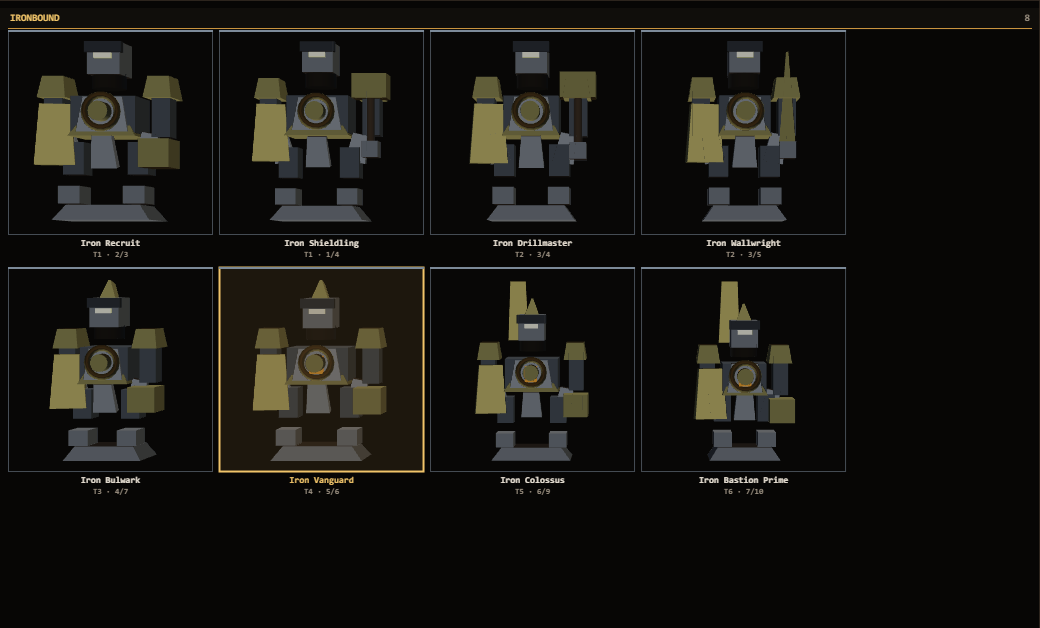
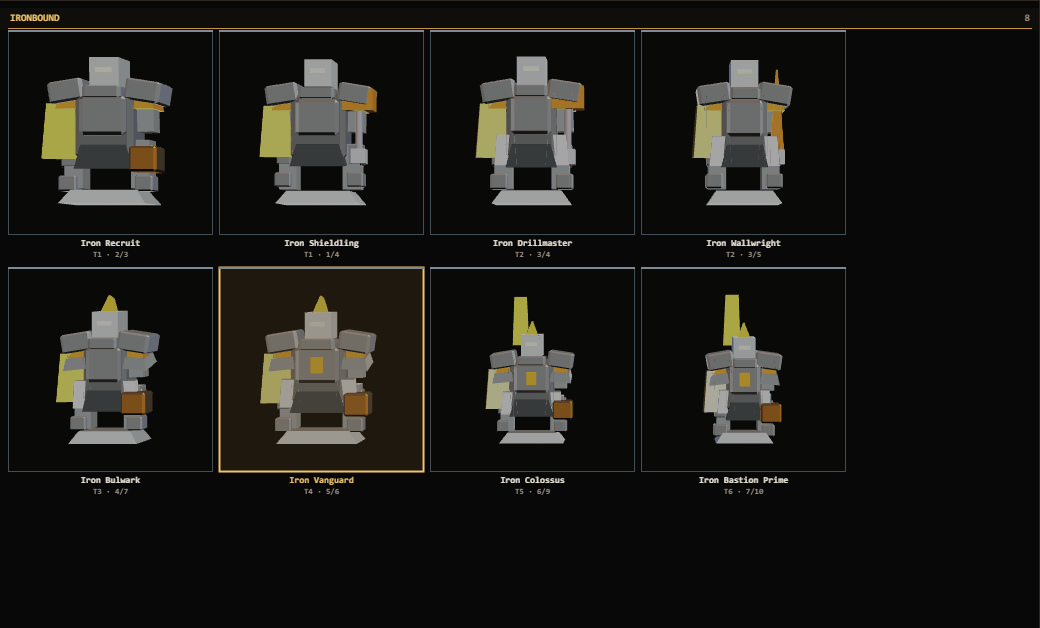
arena-forge: pass-5 Ironbound convergence (re-tuned for the new shading)
Fifth visual-convergence pass over the enriched, specular-lit figures — and it
re-derives the gallery lighting + Ironbound palette that a stale-base merge had
reverted to their pre-convergence values, now tuned for the real specular:

- lighting: key-dominant gallery rig (1.85 -> 2.45, fills cut) for plate contrast.
- surfacing: brighter satin steel + tighter metal roughness (0.22 -> 0.16) so the
  new specular reads as forged metal.
- colorist: warmer burnt-bronze accent trim.
- modeler: articulated arms (upper arm + beveled forearm + gauntlet fist), mirrored
  so BOTH arms terminate in a fist (fixes the handless mirrored-left-arm bug).
- rigger: shoulder-wide planted leg stance (the thighs were fusing into one pillar).
- art-director: gallery FIT 0.86 -> 0.70 for reference cell margins.

App-tier only; sim untouched. tsgo clean; node --test green.

Claude-Session: https://claude.ai/code/session_01GrrfmrxzJK6Ga4LVCSCwju

diff --git a/apps/arena-forge/web/src/figures/scene/arena-scene.ts b/apps/arena-forge/web/src/figures/scene/arena-scene.ts
@@ -39,12 +39,16 @@ export const arenaCamera = (): Camera3D => ({ position: vec3(0, 2.7, 4.8), targe
  */
 export const buildGalleryStage = (): void => {
   setClearColor([0.035, 0.032, 0.037, 1]);
-  // Key from the upper left, cool fill from the right, warm rim from the front so
-  // a tumbling figure keeps reading from every angle it rotates through.
-  addLight({ kind: "directional", direction: vec3(-0.4, -0.75, -0.52), color: [1, 0.96, 0.88, 1], intensity: 1.85 });
-  addLight({ kind: "directional", direction: vec3(0.65, -0.3, 0.5), color: [0.6, 0.72, 0.98, 1], intensity: 0.95 });
-  addLight({ kind: "directional", direction: vec3(0, 0.55, 1), color: [1, 0.62, 0.34, 1], intensity: 0.8 });
-  addLight({ kind: "directional", direction: vec3(0, -1, 0.15), color: [0.75, 0.7, 0.8, 1], intensity: 0.45 });
+  // A DOMINANT key from the upper left, with the fills held well below it so the
+  // shadow-side planes fall into real darkness and each plate reads by its own
+  // light/dark break (the reference's crisp plate contrast) instead of washing to
+  // an even mid-grey. Cool fill from the right + warm forge rim from the front still
+  // keep a tumbling figure readable from every angle — they just no longer out-sum
+  // the key.
+  addLight({ kind: "directional", direction: vec3(-0.4, -0.75, -0.52), color: [1, 0.96, 0.88, 1], intensity: 2.45 });
+  addLight({ kind: "directional", direction: vec3(0.65, -0.3, 0.5), color: [0.6, 0.72, 0.98, 1], intensity: 0.5 });
+  addLight({ kind: "directional", direction: vec3(0, 0.55, 1), color: [1, 0.62, 0.34, 1], intensity: 0.42 });
+  addLight({ kind: "directional", direction: vec3(0, -1, 0.15), color: [0.75, 0.7, 0.8, 1], intensity: 0.22 });
 };
 
 /** Build the static arena (floor + lights + camera + clear color). Idempotent per

diff --git a/apps/arena-forge/web/src/figures/bodyplans.ts b/apps/arena-forge/web/src/figures/bodyplans.ts
@@ -76,8 +76,16 @@ const ironbound = (seed: number, tier: Tier): FigurePartDefinition[] => {
     // Overlapping pauldrons: a big beveled cap dome with a lower lame layered under it.
     P("shoulder", "torso", "shoulder", "plate", "accent", vec3(w * 0.62, 0.28, 0), vec3(0.26, 0.2, 0.34), { mirror: { axis: "x", idSuffix: "_r" } }),
     P("pauldron_cap", "torso", "shoulder", "rounded_box", "metal", vec3(w * 0.66, 0.36, 0), vec3(0.36, 0.22, 0.42), { rot: vec3(0, 0, -0.16), mirror: { axis: "x", idSuffix: "_r" } }),
-    P("arm", "torso", "upper_arm", "box", "primary", vec3(w * 0.66, -0.02, 0), vec3(0.17, 0.5, 0.18), { mirror: { axis: "x", idSuffix: "_r" } }),
-    P("leg", "base", "thigh", "box", "primary", vec3(w * 0.36, 0.34, 0), vec3(0.19, 0.5, 0.2), { mirror: { axis: "x", idSuffix: "_r" } }),
+    // Articulated arm on BOTH sides: an upper arm, a beveled forearm couter, and a
+    // chunky gauntlet fist at the wrist — so each limb terminates in a fist (a
+    // defining knight silhouette) instead of a stub. All mirrored across x.
+    P("arm", "torso", "upper_arm", "box", "primary", vec3(w * 0.66, 0.1, 0), vec3(0.17, 0.3, 0.18), { mirror: { axis: "x", idSuffix: "_r" } }),
+    P("forearm", "torso", "fore_arm", "rounded_box", "metal", vec3(w * 0.66, -0.3, 0.02), vec3(0.155, 0.24, 0.165), { mirror: { axis: "x", idSuffix: "_r" } }),
+    P("fist", "torso", "hand", "rounded_box", "metal", vec3(w * 0.66, -0.58, 0.05), vec3(0.18, 0.16, 0.2), { mirror: { axis: "x", idSuffix: "_r" } }),
+    // Braced heavy-warrior stance: the legs plant SHOULDER-WIDE so the two thighs
+    // read as a distinct, grounded pair (at w*0.36 their inner edges crossed the
+    // centreline and fused into one limp central pillar — a mannequin, not a bruiser).
+    P("leg", "base", "thigh", "box", "primary", vec3(w * 0.58, 0.34, 0), vec3(0.19, 0.5, 0.2), { mirror: { axis: "x", idSuffix: "_r" } }),
   ];
   // Weapon in the right hand (a fixed hero hand, not mirrored).
   parts.push(P("hand", "torso", "hand", "box", "metal", vec3(w * 0.72, -0.32, 0.08), vec3(0.16, 0.16, 0.16), { attach: "right_hand" }));
@@ -92,7 +100,7 @@ const ironbound = (seed: number, tier: Tier): FigurePartDefinition[] => {
   // Off hand shield for durable silhouettes.
   parts.push(P("shield", "torso", "shield", "plate", "accent", vec3(-w * 0.78, -0.05, 0.12), vec3(0.36, 0.56, 0.1), { rot: vec3(0, 0.2, 0) }));
   // Segmented tassets guarding the hips (a second waist layer under the fauld).
-  parts.push(P("tasset", "base", "thigh", "plate", "metal", vec3(w * 0.36, 0.5, 0.12), vec3(0.24, 0.32, 0.14), { tierMin: 2, rot: vec3(0.12, 0, 0), mirror: { axis: "x", idSuffix: "_r" } }));
+  parts.push(P("tasset", "base", "thigh", "plate", "metal", vec3(w * 0.52, 0.5, 0.12), vec3(0.24, 0.32, 0.14), { tierMin: 2, rot: vec3(0.12, 0, 0), mirror: { axis: "x", idSuffix: "_r" } }));
   // A lower pauldron lame that overlaps the cap, added as the figure gets fancier.
   parts.push(P("pauldron_lame", "torso", "shoulder", "plate", "metal", vec3(w * 0.66, 0.15, 0.02), vec3(0.32, 0.13, 0.38), { tierMin: 3, lodMin: "med", rot: vec3(0.22, 0, -0.1), mirror: { axis: "x", idSuffix: "_r" } }));
   // Tier embellishments.

diff --git a/apps/arena-forge/web/src/figures/languages/index.ts b/apps/arena-forge/web/src/figures/languages/index.ts
@@ -19,10 +19,10 @@ export const hexToRgba = (hex: string, alpha = 1): Rgba => {
 const IRONBOUND: GroupVisualLanguage = {
   id: "ironbound",
   palette: {
-    primary: hexToRgba("#6b7280"),
+    primary: hexToRgba("#828b98"),
     secondary: hexToRgba("#3a4149"),
-    accent: hexToRgba("#c8933f"),
-    metal: hexToRgba("#8a94a6"),
+    accent: hexToRgba("#bf7d2a"),
+    metal: hexToRgba("#a7b1c2"),
     emissive_core: hexToRgba("#7a4a1a"),
     glow: hexToRgba("#f0a850"),
     eye: hexToRgba("#ffcf7a"),
@@ -31,7 +31,7 @@ const IRONBOUND: GroupVisualLanguage = {
   emissiveRoles: { emissive_core: hexToRgba("#c8681a"), glow: hexToRgba("#ff9a3d"), eye: hexToRgba("#ffcf7a") },
   // Forged-metal knights: bare metal + plate roles are glossy; the brass accent trim,
   // cape/banner, and painted secondary read matte.
-  roughnessRoles: { metal: 0.22, primary: 0.34, secondary: 0.6, accent: 0.68 },
+  roughnessRoles: { metal: 0.16, primary: 0.28, secondary: 0.6, accent: 0.68 },
   preferredPrimitives: ["box", "rounded_box", "cylinder", "wedge", "plate"],
   jointStyle: "rigid",
   defaultAnimation: "ironbound_default",

diff --git a/apps/arena-forge/web/src/screens/figure-lab/figure-lab.ts b/apps/arena-forge/web/src/screens/figure-lab/figure-lab.ts
@@ -37,8 +37,12 @@ const PX_PER_UNIT = 96;
 const FOV_Y = 0.5;
 /** Radians per tick of the slow turntable spin (~14°/s at 60Hz). */
 const SPIN_PER_TICK = 0.004;
-/** Fraction of an icon cell the figure's bounding height fills. */
-const FIT = 0.86;
+/** Fraction of an icon cell the figure's bounding height fills. Held well under 1
+ * so the full head-to-pedestal silhouette (and any raised banner/spike) reads
+ * inside the cell with a clear margin band — the reference frames each miniature
+ * as a roomy portrait rather than packing it edge-to-edge and cropping the
+ * feet/banner against the cell rim. */
+const FIT = 0.7;
 const Y_AXIS: Vec3 = vec3(0, 1, 0);
 
 export class FigureLabScreen implements Screen {